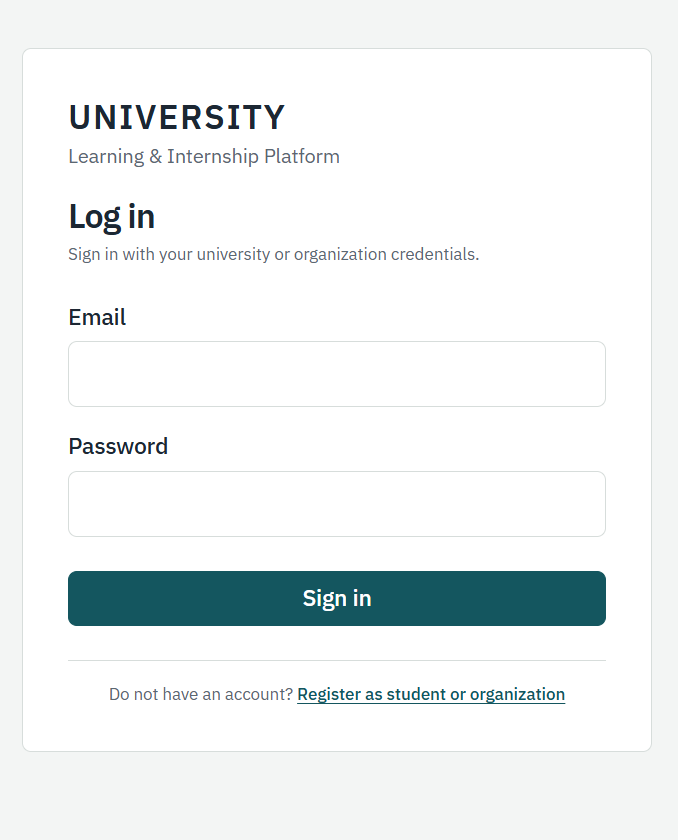
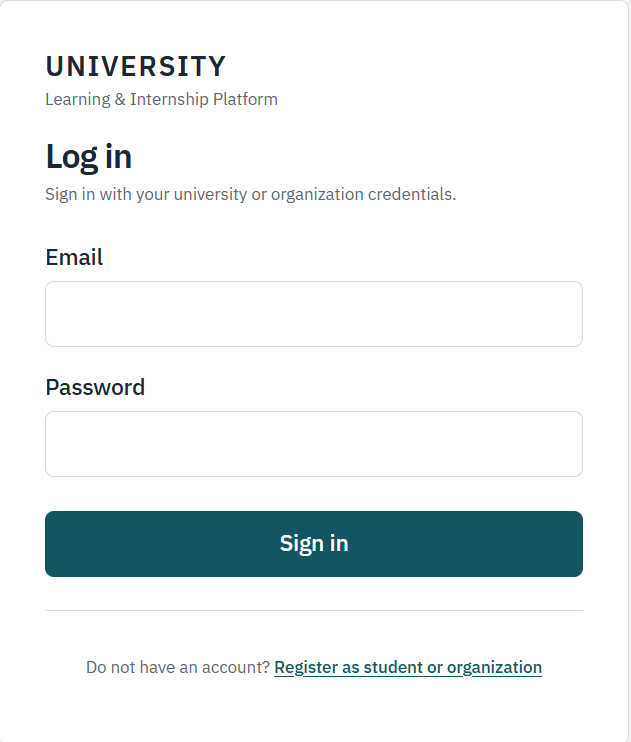
docs: truth-check retaken screenshots, update documentation captions, and test login branding

diff --git a/frontend/src/pages/LoginPage.test.tsx b/frontend/src/pages/LoginPage.test.tsx
@@ -9,6 +9,21 @@ describe('LoginPage Component', () => {
     vi.restoreAllMocks();
   });
 
+  it('renders the UNIVERSITY brand wordmark and platform tagline', () => {
+    render(
+      <MemoryRouter initialEntries={['/login']}>
+        <AuthProvider initialUser={null}>
+          <LoginPage />
+        </AuthProvider>
+      </MemoryRouter>
+    );
+
+    const brand = screen.getByTestId('platform-brand');
+    expect(brand).toBeInTheDocument();
+    expect(brand).toHaveTextContent('UNIVERSITY');
+    expect(brand).toHaveTextContent('Learning & Internship Platform');
+  });
+
   it('validates required fields before submitting', async () => {
     render(
       <MemoryRouter initialEntries={['/login']}>

diff --git a/docs/user-guide.md b/docs/user-guide.md
@@ -36,8 +36,8 @@ The platform provides two distinct operating modes:
 - **Mobile Navigation Drawer**: On mobile screens (viewports under 768px), click the menu icon in the top header to reveal the navigation drawer with full keyboard focus management and scroll lock.
 - **Touch-Friendly Controls**: Interactive buttons, navigation links, and inputs provide a minimum 44px hit target for touchscreen devices.
 
-![Login screen with email and password fields and registration link](screenshots/login.png)
-*Login page with email and password input fields and role registration link.*
+![Login screen with UNIVERSITY wordmark, email and password fields, and role registration link](screenshots/login.png)
+*Login page with UNIVERSITY wordmark, credentials input fields, and role registration link.*
 
 ### Pre-Seeded Demo Accounts Reference
 
@@ -77,8 +77,8 @@ All demo accounts are provisioned via `scripts/seed_demo.py`. For local testing 
    - "ER Diagramming &amp; Conceptual Modeling" past due displays a past due badge.
 4. Review the **Recent Grades** panel showing scored assignments with percentage chips and instructor feedback (e.g., 100% on ER Diagramming).
 
-![Student dashboard with coursework metrics, rule-based next steps action items, and upcoming assignment deadlines](screenshots/student-dashboard.png)
-*Student dashboard displaying course enrollment metrics, rule-based next steps task items with effort estimates, and upcoming assignment due dates.*
+![Student dashboard with course progress, due assignments, recommendations, and achievement badges](screenshots/student-dashboard.png)
+*Student dashboard displaying course progress bars, upcoming due dates, matching internship suggestions, and achievement badges.*
 
 ### Step 2: Browse &amp; Enroll in Courses (`/courses`)
 1. Click **Courses** in the main navigation.
@@ -133,8 +133,8 @@ All demo accounts are provisioned via `scripts/seed_demo.py`. For local testing 
 ![Rule-based study plan and weekly progress schedule](screenshots/study-plan.png)
 *Deterministic rule-based study plan displaying weekly progress summary, academic performance averages, and daily scheduled tasks with effort estimates.*
 
-![Internship catalog with rule-based recommendation cards and search filters](screenshots/suggested-internships.png)
-*Internship catalog displaying rule-based suggestion cards with percentage match scores, keyword search, and work mode filter.*
+![Internship catalog with rule-based suggestion cards, keyword search, work mode filter, and listings table](screenshots/suggested-internships.png)
+*Internship catalog displaying rule-based suggestion cards with percentage match scores, search filters, and listings table.*
 
 ---
 
@@ -213,8 +213,8 @@ All demo accounts are provisioned via `scripts/seed_demo.py`. For local testing 
    - Meron Girma: **Shortlisted**
 5. Click **Review Application** to advance candidate decisions. Terminal decisions lock the application against tampering.
 
-![Organization internship postings table with status badges, applicant counts, and review feedback notice](screenshots/organization-applicants.png)
-*Organization internship management view displaying postings across lifecycle statuses, applicant counts, and admin review rejection feedback notice.*
+![Organization internship applicant roster with candidate details, decision status badges, and CSV export](screenshots/organization-applicants.png)
+*Organization posting details view showing candidate applicant roster, decision status badges, and CSV export action.*
 
 ---
 

diff --git a/README.md b/README.md
@@ -4,8 +4,8 @@
 
 A web platform that integrates academic coursework management, assignment submission and grading, verified corporate internship postings, and university administrative oversight into a unified system. Built with Python FastAPI, PostgreSQL, and React with TypeScript, it enforces server-side role-based access control, relational data integrity, and strict input validation across all workflows.
 
-![Student dashboard showing enrolled courses, assignment metrics, rule-based next steps, and upcoming due dates](docs/screenshots/student-dashboard.png)
-*Student dashboard displaying enrollment metrics, rule-based next steps action items, and upcoming assignment due dates.*
+![Student dashboard showing course progress, study plan next steps, suggested internships, and achievement badges](docs/screenshots/student-dashboard.png)
+*Full student dashboard displaying academic metrics, course progress bars, rule-based study plan next steps, matching internship recommendations, and achievement badges.*
 
 ![Rule-based weekly study plan and progress summary](docs/screenshots/study-plan.png)
 *Deterministic rule-based weekly study plan displaying progress summary, workload alerts, and daily schedule allocations.*
